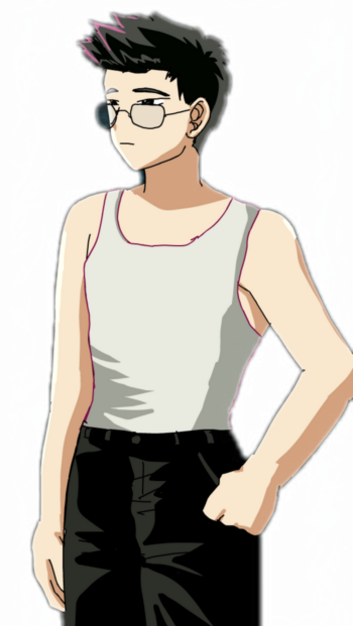
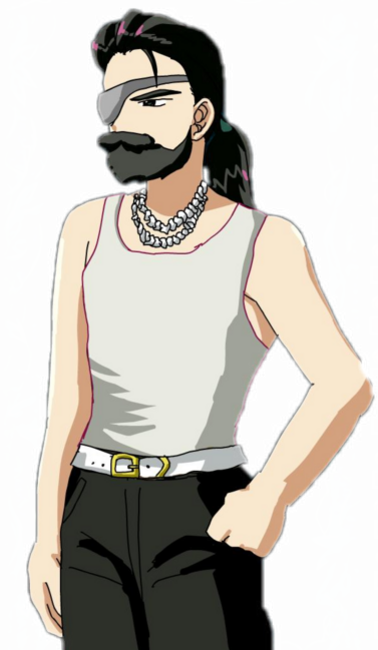
sprite added

Changed region(s): [[0.0623, 0.0, 1.0, 1.0]]

diff --git a/client/src/Features/World/HTMLTown/Zones/islandTiles.js b/client/src/Features/World/HTMLTown/Zones/islandTiles.js
@@ -3,7 +3,7 @@ export const IslandTiles = [
     [1, 1, 1, 1, 1, 1, 1, 1, 0, 0, 0, 0, 1, 1, 1, 1, 1, 1, 1, 1, 1, 1, 1, 1, 0, 0, 0, 0, 0, 1, 1, 1],
     [1, 1, 1, 1, 1, 1, 1, 1, 0, 1, 0, 1, 1, 1, 1, 1, 1, 1, 1, 1, 1, 1, 1, 1, 1, 0, 0, 0, 0, 0, 1, 1],
     [1, 1, 1, 1, 1, 1, 1, 0, 0, 0, 1, 1, 1, 1, 1, 1, 0, 0, 0, 0, 1, 1, 1, 1, 1, 1, 0, 1, 0, 0, 1, 1],
-    [1, 1, 1, 1, 1, 1, 0, 0, 0, 0, 1, 1, 1, 1, 1, 0, 0, 0, 0, 0, 0, 0, 1, 1, 1, 1, 0, 1, 0, 0, 1, 1],
+    [1, 1, 1, 1, 1, 1, 0, 0, 0, 0, 1, 1, 1, 1, 1, 0, 10, 0, 0, 0, 0, 0, 1, 1, 1, 1, 0, 1, 0, 0, 1, 1],
     [1, 1, 1, 1, 1, 1, 0, 0, 0, 0, 1, 1, 1, 1, 1, 0, 0, 0, 0, 0, 0, 0, 1, 1, 1, 1, 0, 0, 0, 0, 1, 1],
     [1, 1, 1, 1, 1, 0, 0, 1, 0, 0, 1, 1, 1, 1, 1, 0, 0, 0, 0, 0, 0, 0, 1, 1, 1, 1, 0, 0, 0, 1, 1, 1],
     [1, 1, 1, 1, 1, 0, 0, 1, 0, 0, 0, 1, 1, 1, 1, 1, 1, 0, 0, 1, 1, 1, 1, 1, 1, 1, 0, 0, 0, 1, 1, 1],

diff --git a/seeds/seed-db.js b/seeds/seed-db.js
@@ -223,9 +223,9 @@ const gamedb = [
         passedTrialDialogue: []
     },
     {
-        npcName: "Son the Homeless",
+        npcName: "Son",
         dialogue: ["Gabe disowned me for using jQuery... I should have read his documentation... "],
-        position: ",",
+        position: "640,160",
         beatTrial: [],
         map: "React",
         passedTrialDialogue: []

diff --git a/client/src/Features/World/HTMLTown/Zones/island_NPC.js b/client/src/Features/World/HTMLTown/Zones/island_NPC.js
@@ -6,7 +6,7 @@ import './style.css'
 
 const islandNPC = (props) => (
   <div>
-    <div className="theHomeless"></div>
+    <div className="Son"></div>
     <div className="boatIsland"></div>
     {props.isShown && <Dialogue dialogue={props.dialogue} name={props.name} pos={props.npcPos} />}
   </div>

diff --git a/client/src/Features/World/HTMLTown/Zones/style.css b/client/src/Features/World/HTMLTown/Zones/style.css
@@ -8,6 +8,12 @@
     height: 60px;
 }
 
-.theHomeless {
-
+.Son {
+    position: absolute;
+    top: 160px;
+    left: 640px;
+    background-Image: url('../HTML_NPC/Sprites/Son.png');
+    background-Position: 0px 0px;
+    width: 40px;
+    height: 40px;
 }

diff --git a/client/src/Features/World/CSSTown/CSS_NPC/style.css b/client/src/Features/World/CSSTown/CSS_NPC/style.css
@@ -67,4 +67,3 @@
     width: 40px;
     height: 40px;
 }
-
